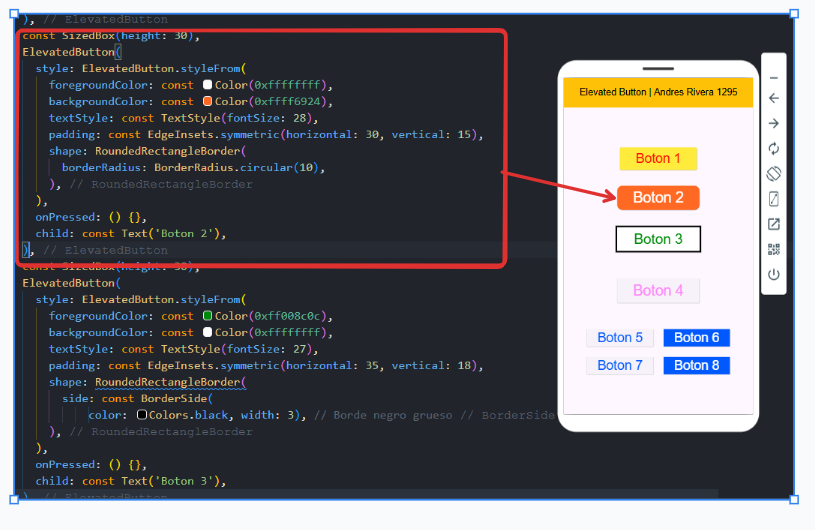
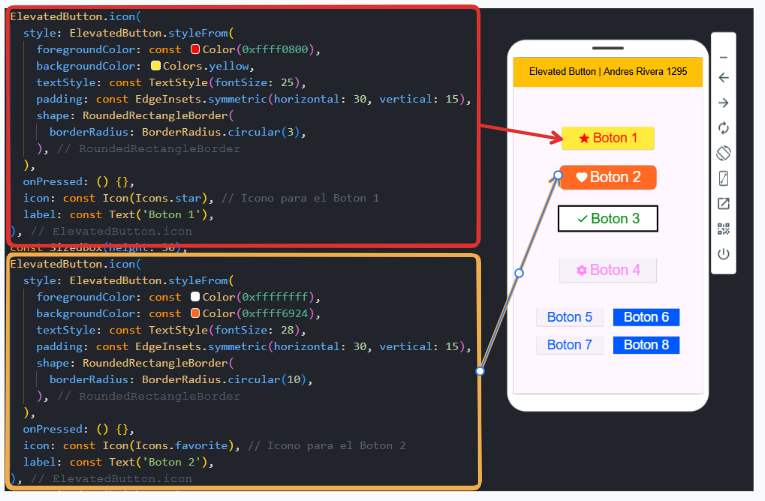
Rivera

diff --git a/lib/main.dart b/lib/main.dart
@@ -36,7 +36,7 @@ class _ElevatedButtonExampleState extends State<ElevatedButtonExample> {
       child: Column(
         mainAxisSize: MainAxisSize.min,
         children: <Widget>[
-          ElevatedButton(
+          ElevatedButton.icon(
             style: ElevatedButton.styleFrom(
               foregroundColor: const Color(0xffff0800),
               backgroundColor: Colors.yellow,
@@ -47,10 +47,11 @@ class _ElevatedButtonExampleState extends State<ElevatedButtonExample> {
               ),
             ),
             onPressed: () {},
-            child: const Text('Boton 1'),
+            icon: const Icon(Icons.star), // Icono para el Boton 1
+            label: const Text('Boton 1'),
           ),
           const SizedBox(height: 30),
-          ElevatedButton(
+          ElevatedButton.icon(
             style: ElevatedButton.styleFrom(
               foregroundColor: const Color(0xffffffff),
               backgroundColor: const Color(0xffff6924),
@@ -61,25 +62,26 @@ class _ElevatedButtonExampleState extends State<ElevatedButtonExample> {
               ),
             ),
             onPressed: () {},
-            child: const Text('Boton 2'),
+            icon: const Icon(Icons.favorite), // Icono para el Boton 2
+            label: const Text('Boton 2'),
           ),
           const SizedBox(height: 30),
-          ElevatedButton(
+          ElevatedButton.icon(
             style: ElevatedButton.styleFrom(
               foregroundColor: const Color(0xff008c0c),
               backgroundColor: const Color(0xffffffff),
               textStyle: const TextStyle(fontSize: 27),
               padding: const EdgeInsets.symmetric(horizontal: 35, vertical: 18),
               shape: RoundedRectangleBorder(
-                side: const BorderSide(
-                    color: Colors.black, width: 3), // Borde negro grueso
+                side: const BorderSide(color: Colors.black, width: 3),
               ),
             ),
             onPressed: () {},
-            child: const Text('Boton 3'),
+            icon: const Icon(Icons.check), // Icono para el Boton 3
+            label: const Text('Boton 3'),
           ),
           const SizedBox(height: 50),
-          ElevatedButton(
+          ElevatedButton.icon(
             style: ElevatedButton.styleFrom(
               foregroundColor: const Color(0xffff87fa),
               textStyle: const TextStyle(fontSize: 28),
@@ -87,9 +89,11 @@ class _ElevatedButtonExampleState extends State<ElevatedButtonExample> {
               shape: const RoundedRectangleBorder(),
             ),
             onPressed: () {},
-            child: const Text('Boton 4'),
+            icon: const Icon(Icons.settings), // Icono para el Boton 4
+            label: const Text('Boton 4'),
           ),
           const SizedBox(height: 50),
+          // Resto del código...
           Row(
             mainAxisAlignment: MainAxisAlignment.center,
             children: <Widget>[
